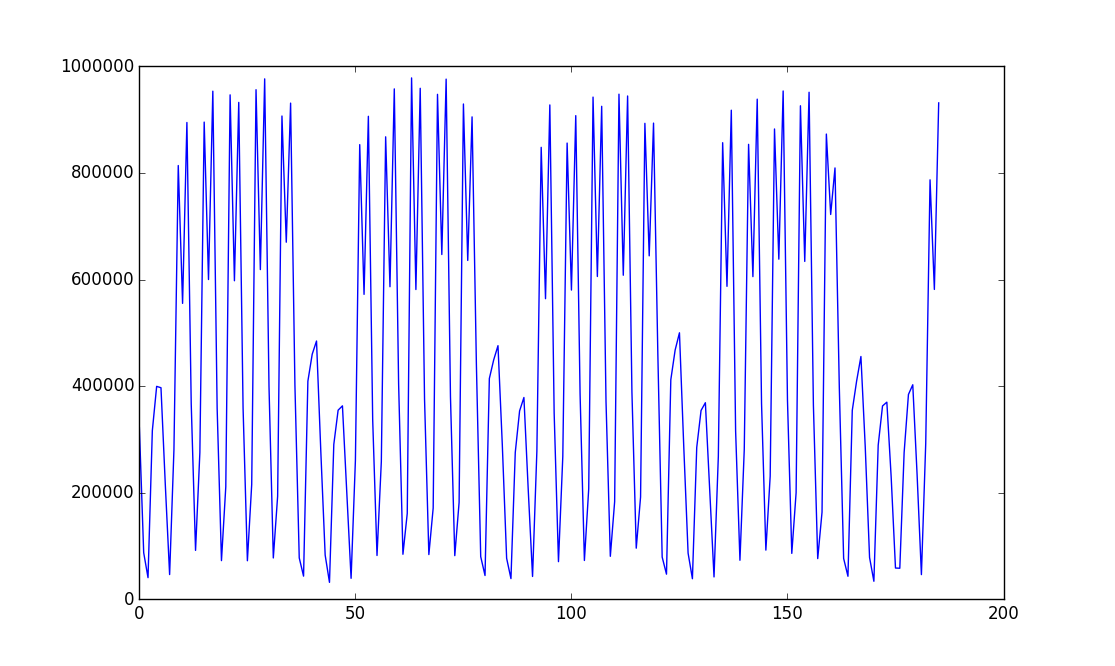
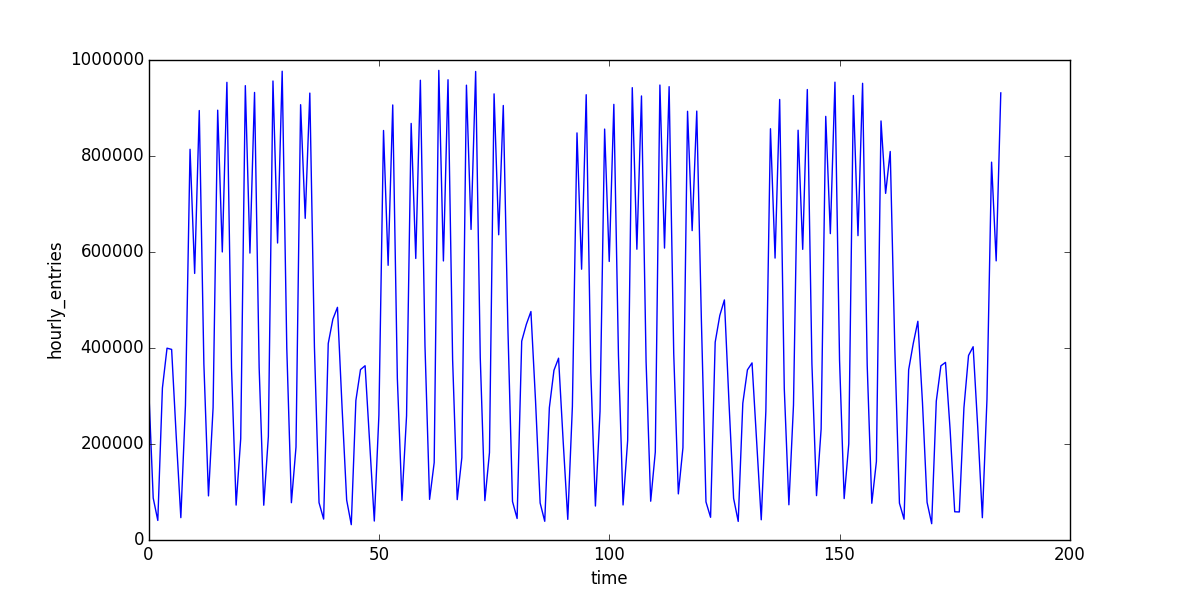
Updated submission to reflect feedback from initial review...

Changed region(s): [[0.0305, 0.09, 0.9148, 0.99], [0.8233, 0.27, 0.8538, 0.45]]

diff --git a/Documents/data_science/p1_v2/answers.html b/Documents/data_science/p1_v2/answers.html
@@ -13,12 +13,12 @@
 	<ul>
 	<li>Mean with no rain: 1105.5</li>
 	<li>Mean with rain: 1090.3</li>
-	<li>p value: 0.0249</li>
+	<li>p value: 0.498</li>
 	</ul>
 
 <h3>1.4 What is the significance and interpretation of these results?</h3>
 
-	<p>With a p critical value of 0.05 (divided by 2 for a 2 tailed test) the given p value of .0249 just barely "passes" the test. The means for clear and rainy days differ from one another by approximately 1%. While the difference in means appears otherwise insignificant, the result from the Mann Whitney U test demonstrates that the ridership on rainy days is consistently higher than the ridership on clear days.</p>
+	<p>With a p critical value of 0.05 .0498 just barely "passes" the test. The means for clear and rainy days differ from one another by approximately 1%. While the difference in means appears otherwise insignificant, the result from the Mann Whitney U test demonstrates that the ridership on rainy days is consistently higher than the ridership on clear days.</p>
 
 <h3>Section 2. Linear Regression</h3>
 
@@ -104,8 +104,9 @@ plots. Also, please add a short description below each figure commenting on the 
 
     <h5>Ridership by time-of-day or day-of-week</h5>
     <h5>Which stations have more exits or entries at different times of day</h5>
-<img src="visualizations/rain_by_unit_and_date.png">
-<p>This image shows that most of the rainy time periods for each unit occur in unison with one another (since we see vertical white bands, rather than randomly distributed white pixels). We can see from the visualization that only four periods of rain occur during the course of this data collection. Moreover, we can see that most of the rainy days occur during one stretch of time towards the middle of the data collection period.</p>
+<img src="visualizations/ridership_by_time_and_date.png">
+<p>This line graph shows the total hourly entries in each consecutive time period. We can see from the graph that there are fairly regular patterns of ridership volume over the course of the data collection, with more riders on Saturdays than Sundays, about twice the ridership on the weekdays, and slightly increasing ridership as the week progresses. There is one instance of three consecutive days with decreased overall ridership, which is likely due to a holiday.</p>
+
 <h3>Section 4. Conclusion</h3>
 
 <h3>Please address the following questions in detail. Your answers should be 1-2 paragraphs long.</h3>
@@ -113,14 +114,13 @@ plots. Also, please add a short description below each figure commenting on the 
 <h3>4.1 From your analysis and interpretation of the data, do more people ride
 the NYC subway when it is raining or when it is not raining? </h3>
  
-	<p>It appears to be the case from the analysis that more people ride the subway when it is raining from the data analysis, although there is not enough data to make a conclusion either way.</p>
+	<p>It appears to be the case from the analysis that more people ride the subway when it is raining from the data analysis.</p>
 
 <h3>4.2 What analyses lead you to this conclusion? You should use results from both your statistical
 tests and your linear regression to support your analysis.</h3>
     
 	<p>The mean hourly entries on days with rain was observed to be slightly greater than that of the mean hourly entries on days without rain (by approximately 1%). The Mann Whitney U test generated a p value which was just barely under the threshold for passing the threshold for passing the p test. resulted in a significantly low p value. This demonstrated a trend of consistently higher hourly entries on rainy days.</p>
 	<p>The theta value from the linear regression model was negative, and approximately 10% the size of the other theta values. This alone is not particularly helpful, because it is clear from the resulting theta values that the volume of ridership is affected more significantly by the hour and day of the week parameters. However along with the results from the statistical analysis, it does help to reinforce the trend for more people to ride the subway when it is raining.</p>
-	<p>Most importantly however, the observation from second data visualization showed that most of the rainy entries occured during a single stretch of time. This means that any number of other events during the time it was raining, including the time of day and the day of the week, could have influence the results of the statistical analysis. This is what lead me to conclude that there is not sufficient data to imply weather or not the presence of rain has a noticable effect on ridership.</p>
 
 <h3>Section 5. Reflection</h3>
 
@@ -141,8 +141,6 @@ of your analysis, include limitations of and/or issues with the:</h3>
 
     <h3>5.1.3: Statistical tests:</h3>
 	<p>The limited time span of this data set makes it difficult to generalize the results of the statistical analysis to a larger population.</p>
-<p>The Mann Whitney U test assumes two identical distributions. As was observed in the second data visualization, the distributions of ridership volume on rainy and non rainy days are not independent, because they occur at two distinct times. This means that it is possible something else influenced the results of the test during these periods.</p>
 
 <h3>5.2 (Optional) Do you have any other insight about the dataset that you would like to share with us?</h3>
-	<p>While it was not included in this document, I made a basic visualization of overall ridership by time and date (included in the visualizations folder). The visualization showed pretty consistent patterns of ridership volume by time of day and weekday/weekend (except for what appears to be memorial day towards the end). <p></p>It is a bit surprising then that the linear regression model --which took both parameters into account-- did not produce a better fit. It may be that these patterns have an overall trend, but vary considerably between different neighborhoods.</p>
-<p>Another point worth mentioning is that while looking at the visualization of rain by time and date, I saw that nearly all of the missing data points occured in clusters and at periodic intervals. This may be intentional (i.e. regular maintanance), although if it is not, it might indicate periodic failure of the data collection system that could be looked into.</p>
+	<p>No.</p>

diff --git a/Documents/data_science/p1_v2/code/data visualization.py b/Documents/data_science/p1_v2/code/data visualization.py
@@ -21,14 +21,15 @@ turnstile_weather = pandas.read_csv(filepath)
 def entries_histogram(turnstile_weather):
     
     plt.figure()
-
+    plt.ylim(0,4000)
+    plt.xlim(0,15000)
     plt.xlabel('hourly entries')
     plt.ylabel('frequency')
     #plot a historgram for hourly entries when it is not raining
-    turnstile_weather[turnstile_weather['rain']==False]["ENTRIESn_hourly"].hist(bins=80, label = "no rain")
+    turnstile_weather[turnstile_weather['rain']==False]["ENTRIESn_hourly"].hist(bins=40, label = "no rain")
 
     #plot a historgram for hourly entries when it is raining
-    turnstile_weather[turnstile_weather['rain']==True]["ENTRIESn_hourly"].hist(bins=80, label = "rain")
+    turnstile_weather[turnstile_weather['rain']==True]["ENTRIESn_hourly"].hist(bins=40, label = "rain")
 
     #put in a legend...
     plt.legend()
@@ -164,6 +165,9 @@ def ridership_by_time(turnstile_weather):
 	print 'step 2 complete'
 	
 	## 3. make a line graph from the data
+
+	plt.xlabel('time')
+	plt.ylabel('hourly_entries')
 	plt.plot(riders_by_date)
 	plt.show()
 	
@@ -173,7 +177,7 @@ def ridership_by_time(turnstile_weather):
 ## uncomment either of the lines below to 
 ## generate the corresponding visualization...
 
-#entries_histogram(turnstile_weather)
+entries_histogram(turnstile_weather)
 #rain_by_time_and_station(turnstile_weather)
 #ridership_by_time(turnstile_weather)
 
